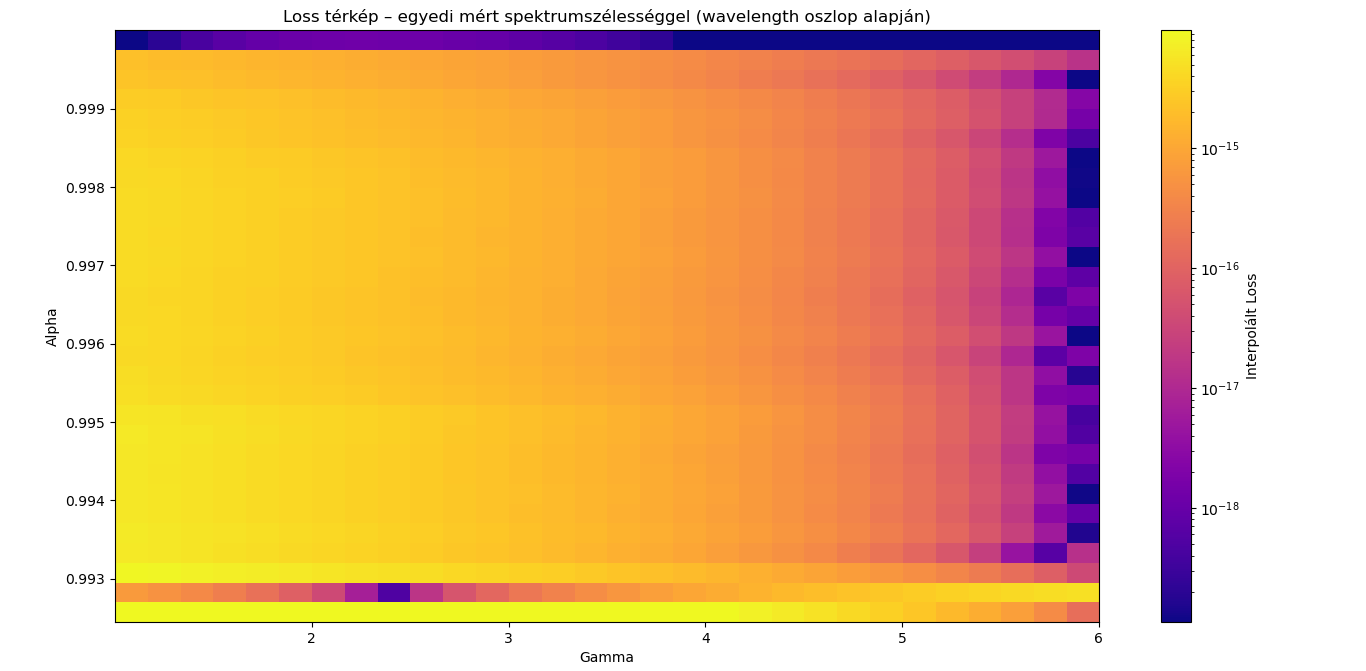
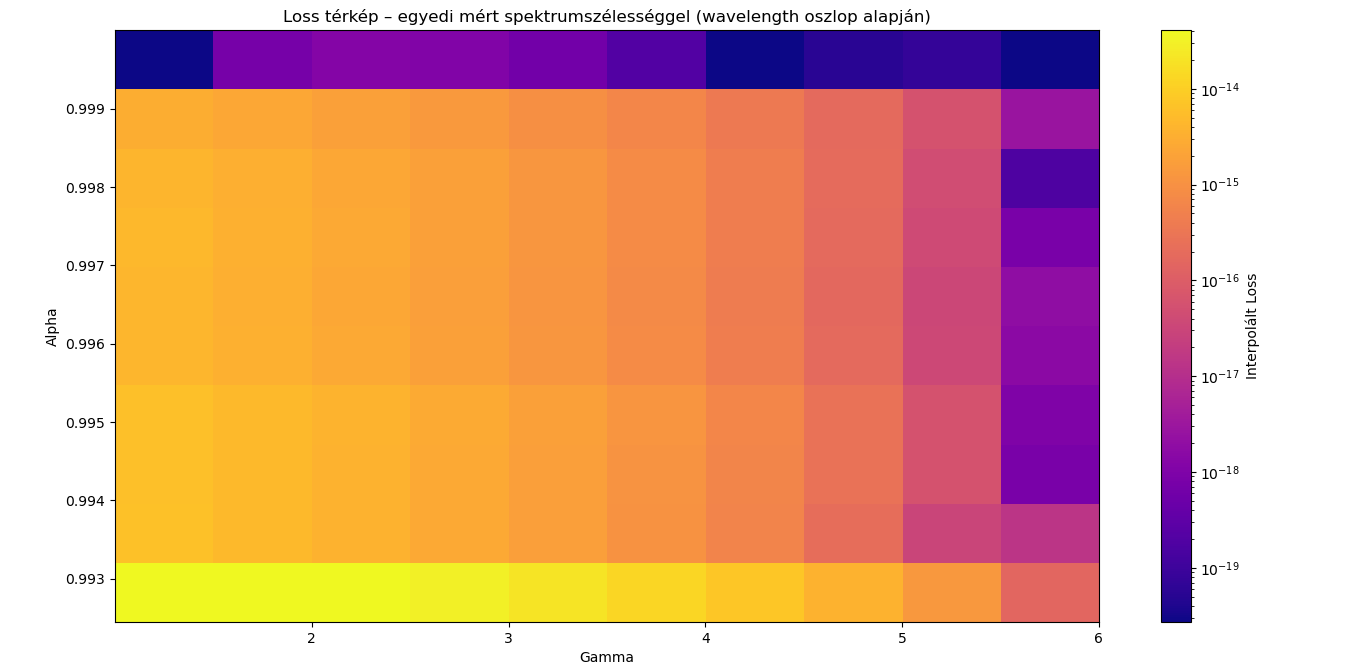
gas filled HCF simulation

diff --git a/source.py b/source.py
@@ -207,8 +207,8 @@ bw_measured_vals = df["wavelength"].values * 1e-9  # nm → m
 bw_interp = RBFInterpolator(X, bw_measured_vals, smoothing=1e-10)
 
 # Rács generálása
-alphas = np.linspace(df["alpha"].min(), df["alpha"].max(), 30)
-gammas = np.linspace(df["gamma"].min(), df["gamma"].max(), 30)
+alphas = np.linspace(df["alpha"].min(), df["alpha"].max(), 10)
+gammas = np.linspace(df["gamma"].min(), df["gamma"].max(), 10)
 alpha_grid, gamma_grid = np.meshgrid(alphas, gammas)
 points_grid = np.column_stack([alpha_grid.ravel(), gamma_grid.ravel()])
 
